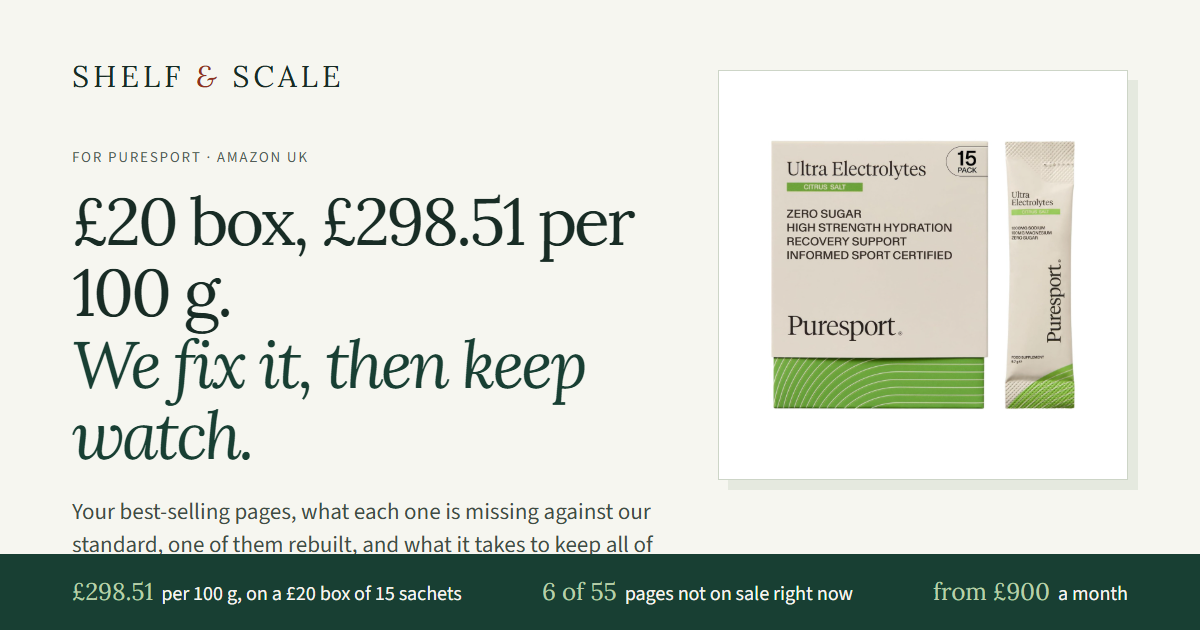
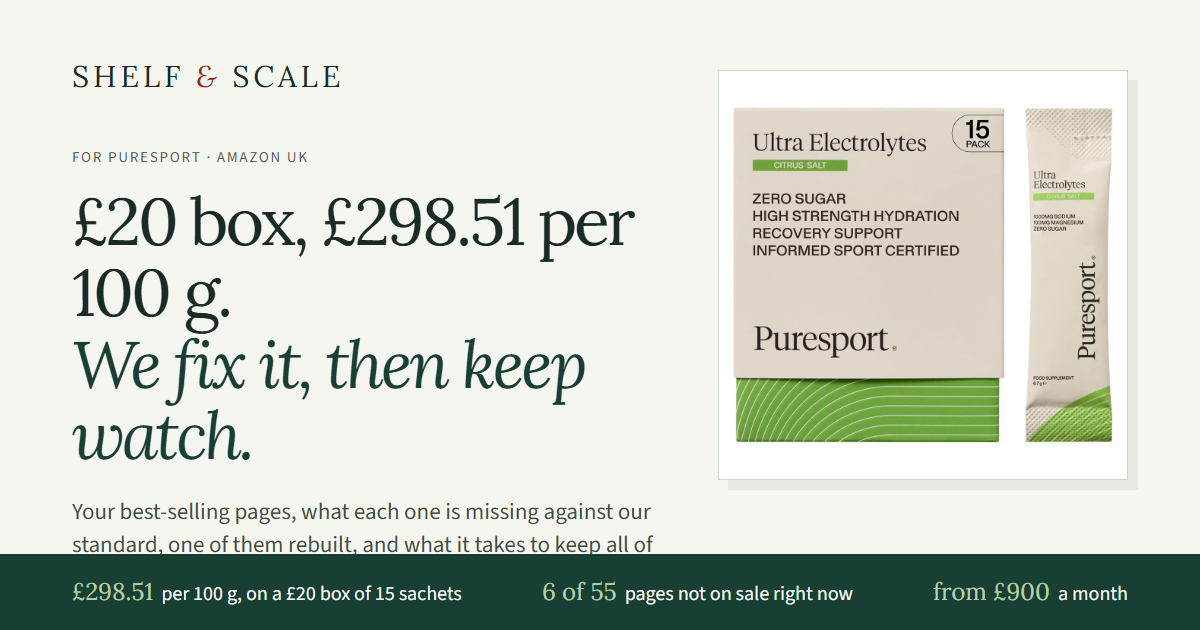
Puresport: own gallery kept, no generated frames

Changed region(s): [[0.5858, 0.1508, 0.925, 0.7238]]

diff --git a/r/puresport-care/index.html b/r/puresport-care/index.html
@@ -46,12 +46,12 @@
     </div>
     <div class="hero-art">
       <div class="product-sheet">
-        <div class="sheet-top"><span class="micro">ULTRA ELECTROLYTES · REBUILT</span><span class="sheet-number">B0D967P6B4</span></div>
-        <div class="packshot" style="height:auto;aspect-ratio:1224 / 800;max-height:418px"><img src="img/sachet-main-hero-v1.jpg" width="1000" height="1000" alt="Your Ultra Electrolytes Citrus Salt 15-pack box and one sachet on white" fetchpriority="high"></div>
+        <div class="sheet-top"><span class="micro">ULTRA ELECTROLYTES · NEW TITLE</span><span class="sheet-number">B0D967P6B4</span></div>
+        <div class="packshot" style="height:auto;aspect-ratio:1224 / 800;max-height:418px"><img src="img/sachet-main-hero-v1.jpg" width="1000" height="1000" alt="Your Ultra Electrolytes Citrus Salt 15-pack box and one sachet, your own main photo" fetchpriority="high"></div>
         <div class="sheet-product"><span>PURESPORT</span><h2>Ultra Electrolytes Citrus Salt, 15 sachets</h2><p>148 ratings · 4.2 stars · £20.00</p></div>
         <div class="sheet-checks"><span><i aria-hidden="true">✓</i> Same account</span><span><i aria-hidden="true">✓</i> Your price</span><span><i aria-hidden="true">✓</i> Every page checked weekly</span></div>
       </div>
-      <div class="art-caption"><span class="micro">MAIN IMAGE</span><span>Your own box and sachet on white, with room around them</span></div>
+      <div class="art-caption"><span class="micro">YOUR PHOTO</span><span>Your own main photo, kept: your gallery is strong</span></div>
     </div>
   </section>
   <!-- THREE NUMBERS -->
@@ -117,13 +117,13 @@
   </section>
   <!-- THE EXAMPLE -->
   <section class="container section" id="example" aria-labelledby="example-title">
-    <div class="section-heading"><div><p class="eyebrow">02 / THE EXAMPLE</p><h2 id="example-title">Your Ultra Electrolytes Citrus Salt, today <em class="ln">and rebuilt.</em></h2></div><p>Most Amazon UK shoppers see a page on a phone. This is the first screen: photo, title, stars, and whether they can buy. The left phone is your page as it stands today; the right is our concept for the same page, at your price. In Care the title, bullets and search terms are rewritten and new photos like these come in the monthly quota; A+ is quoted per page.</p></div>
+    <div class="section-heading"><div><p class="eyebrow">02 / THE EXAMPLE</p><h2 id="example-title">Your Ultra Electrolytes Citrus Salt, today <em class="ln">and with the price per unit fixed.</em></h2></div><p>Most Amazon UK shoppers see a page on a phone. The left phone is your page as it stands today; the right is the same page with a new title and the price per unit corrected, at your price. The photos are yours on both: the gallery is strong, so it stays as it is.</p></div>
 
 
     <div class="phones-block">
-  <div class="page-head"><span class="page-num">01</span><h3>Ultra Electrolytes Citrus Salt, 15 sachets</h3><p>148 ratings · 4.2 stars</p><span class="page-asin">B0D967P6B4</span><dl class="page-delta"><div><dt>Title</dt><dd><s>Puresport Ultra Electrolytes Hydration Citrus Salt (15 Pack), High Performance Sugar Free Electrolytes Powder, 1000mg Sodium, Optimise Hydration & Support Muscles, Travel-Friendly Format</s><br>Puresport Ultra Electrolytes Powder, Citrus Salt, 15 Sugar-Free Hydration Sachets, 1000mg Sodium, Travel-Friendly</dd></div><div><dt>Price per unit</dt><dd>The sachet says 6.7 g, the box holds 15, and the line reads (£298.51 /100 g) → unit count entered as 15 sachets of 6.7 g, so the line reads (£19.90 /100 g), as on your Raspberry 15-pack. The price stays £20.00</dd></div><div><dt>Main image</dt><dd>Your photo of the box and one sachet, filling the frame → the same photo with white around it; made in the monthly photo quota</dd></div><div><dt>Bullets</dt><dd>Eight lines, left as written: what the product does is yours to word</dd></div><div><dt>Gallery</dt><dd>Eight photos with a video, and A+ → they stay as they are</dd></div><div><dt>Offer</dt><dd>Unchanged: your offer at £20.00, in stock, dispatched by Amazon. The price is yours to set</dd></div></dl></div>
+  <div class="page-head"><span class="page-num">01</span><h3>Ultra Electrolytes Citrus Salt, 15 sachets</h3><p>148 ratings · 4.2 stars</p><span class="page-asin">B0D967P6B4</span><dl class="page-delta"><div><dt>Title</dt><dd><s>Puresport Ultra Electrolytes Hydration Citrus Salt (15 Pack), High Performance Sugar Free Electrolytes Powder, 1000mg Sodium, Optimise Hydration & Support Muscles, Travel-Friendly Format</s><br>Puresport Ultra Electrolytes Powder, Citrus Salt, 15 Sugar-Free Hydration Sachets, 1000mg Sodium, Travel-Friendly</dd></div><div><dt>Price per unit</dt><dd>The sachet says 6.7 g, the box holds 15, and the line reads (£298.51 /100 g) → unit count entered as 15 sachets of 6.7 g, so the line reads (£19.90 /100 g), as on your Raspberry 15-pack. The price stays £20.00</dd></div><div><dt>Main image</dt><dd>Your photo: the box and one sachet → kept as it is</dd></div><div><dt>Bullets</dt><dd>Eight lines, left as written: what the product does is yours to word</dd></div><div><dt>Gallery</dt><dd>Eight photos, three videos and A+: a strong gallery → stays as it is; we make no new frames for this page</dd></div><div><dt>Offer</dt><dd>Unchanged: your offer at £20.00, in stock, dispatched by Amazon. The price is yours to set</dd></div></dl></div>
   <div>
-  <div class="ph-toggle" role="tablist" aria-label="Show the page"><button type="button" class="on" data-show="today">Today</button><button type="button" data-show="after">Rebuilt</button></div>
+  <div class="ph-toggle" role="tablist" aria-label="Show the page"><button type="button" class="on" data-show="today">Today</button><button type="button" data-show="after">Fixed</button></div>
   <div class="phones" data-show="today">
     <figure class="phone today"><div class="ph-device"><div class="ph-screen">
   <div class="ph-status"></div><div class="ph-search"><svg class="ph-back" viewBox="0 0 16 16" fill="none" stroke="#0f1111" stroke-width="1.8" stroke-linecap="round" stroke-linejoin="round"><path d="M10 2 4 8l6 6"/></svg><span class="ph-box"><svg width="13" height="13" viewBox="0 0 16 16" fill="none" stroke="#565959" stroke-width="1.8" stroke-linecap="round"><circle cx="6.8" cy="6.8" r="5"/><path d="m10.5 10.5 4 4"/></svg>Search or ask a question</span><svg width="16" height="14" viewBox="0 0 20 17" fill="none" stroke="#0f1111" stroke-width="1.6" stroke-linejoin="round"><path d="M2 5h3.5l1.5-2.5h6L14.5 5H18v10H2z"/><circle cx="10" cy="10" r="3"/></svg></div>
@@ -132,8 +132,8 @@
 
     <figure class="phone after"><div class="ph-device"><div class="ph-screen">
   <div class="ph-status"></div><div class="ph-search"><svg class="ph-back" viewBox="0 0 16 16" fill="none" stroke="#0f1111" stroke-width="1.8" stroke-linecap="round" stroke-linejoin="round"><path d="M10 2 4 8l6 6"/></svg><span class="ph-box"><svg width="13" height="13" viewBox="0 0 16 16" fill="none" stroke="#565959" stroke-width="1.8" stroke-linecap="round"><circle cx="6.8" cy="6.8" r="5"/><path d="m10.5 10.5 4 4"/></svg>Search or ask a question</span><svg width="16" height="14" viewBox="0 0 20 17" fill="none" stroke="#0f1111" stroke-width="1.6" stroke-linejoin="round"><path d="M2 5h3.5l1.5-2.5h6L14.5 5H18v10H2z"/><circle cx="10" cy="10" r="3"/></svg></div>
-  <div class="ph-body"><div class="ph-store"><a>Visit the Puresport Store</a><span class="ph-rating"><span>4.2</span><span class="stars">★★★★☆</span><span class="ph-n">(148)</span></span></div><div class="ph-title">Puresport <u>Ultra Electrolytes Powder</u>, Citrus Salt, 15 Sugar-Free <u>Hydration Sachets</u>, 1000mg Sodium, Travel-Friendly</div><div class="ph-img"><img src="img/sachet-main-v1.jpg" alt="Ultra Electrolytes Citrus Salt rebuilt: the new main image, concept" loading="lazy" width="800" height="800"><div class="ph-dots"><i class="on"></i><i></i><i></i><i></i><i></i><i></i><i></i><i></i><span class="ph-icons"><svg width="16" height="15" viewBox="0 0 24 22" fill="none" stroke="#0f1111" stroke-width="1.8"><path d="M12 20s-9-5.6-9-12a5 5 0 0 1 9-3 5 5 0 0 1 9 3c0 6.4-9 12-9 12z"/></svg><svg width="15" height="15" viewBox="0 0 24 24" fill="none" stroke="#0f1111" stroke-width="1.8" stroke-linecap="round"><circle cx="18" cy="5" r="2.5"/><circle cx="6" cy="12" r="2.5"/><circle cx="18" cy="19" r="2.5"/><path d="m8.2 10.8 7.6-4.6M8.2 13.2l7.6 4.6"/></svg></span></div></div><div class="ph-price"><span class="ph-sym">£</span>20.00<small>(£19.90 /100 g)</small></div><div class="ph-avail">In stock</div><div class="ph-save"><span class="ph-btn yellow">Add to Basket</span><span class="ph-btn orange">Buy Now</span></div><div class="ph-nav"><span class="cur"><svg width="20" height="20" viewBox="0 0 24 24" fill="none" stroke="#0f1111" stroke-width="1.7" stroke-linejoin="round"><path d="M3 11 12 3l9 8v10h-6v-6H9v6H3z"/></svg><b>Home</b></span><span><svg width="20" height="20" viewBox="0 0 24 24" fill="none" stroke="#0f1111" stroke-width="1.7"><circle cx="12" cy="8" r="4"/><path d="M4 21a8 8 0 0 1 16 0"/></svg><b>You</b></span><span><svg width="20" height="20" viewBox="0 0 24 24" fill="none" stroke="#0f1111" stroke-width="1.7" stroke-linejoin="round"><path d="M3 4h2l2.5 11h11L21 7H6.5"/><circle cx="9" cy="19" r="1.5"/><circle cx="17" cy="19" r="1.5"/></svg><b>Basket</b></span><span><svg width="20" height="20" viewBox="0 0 24 24" fill="none" stroke="#0f1111" stroke-width="1.7" stroke-linecap="round"><path d="M4 7h16M4 12h16M4 17h16"/></svg><b>Browse</b></span></div><div class="ph-home"></div></div>
-</div><img class="ph-frame" src="img/frame/iphone.png" alt="" width="640" height="1283" loading="lazy"></div><figcaption>Rebuilt · our concept · your price today</figcaption></figure>
+  <div class="ph-body"><div class="ph-store"><a>Visit the Puresport Store</a><span class="ph-rating"><span>4.2</span><span class="stars">★★★★☆</span><span class="ph-n">(148)</span></span></div><div class="ph-title">Puresport <u>Ultra Electrolytes Powder</u>, Citrus Salt, 15 Sugar-Free <u>Hydration Sachets</u>, 1000mg Sodium, Travel-Friendly</div><div class="ph-img"><img src="img/ph-sachet-today.jpg" alt="Ultra Electrolytes Citrus Salt with the new title and price per unit, concept: your own main photo, unchanged" loading="lazy" width="800" height="800"><div class="ph-dots"><i class="on"></i><i></i><i></i><i></i><i></i><i></i><i></i><i></i><span class="ph-icons"><svg width="16" height="15" viewBox="0 0 24 22" fill="none" stroke="#0f1111" stroke-width="1.8"><path d="M12 20s-9-5.6-9-12a5 5 0 0 1 9-3 5 5 0 0 1 9 3c0 6.4-9 12-9 12z"/></svg><svg width="15" height="15" viewBox="0 0 24 24" fill="none" stroke="#0f1111" stroke-width="1.8" stroke-linecap="round"><circle cx="18" cy="5" r="2.5"/><circle cx="6" cy="12" r="2.5"/><circle cx="18" cy="19" r="2.5"/><path d="m8.2 10.8 7.6-4.6M8.2 13.2l7.6 4.6"/></svg></span></div></div><div class="ph-price"><span class="ph-sym">£</span>20.00<small>(£19.90 /100 g)</small></div><div class="ph-avail">In stock</div><div class="ph-save"><span class="ph-btn yellow">Add to Basket</span><span class="ph-btn orange">Buy Now</span></div><div class="ph-nav"><span class="cur"><svg width="20" height="20" viewBox="0 0 24 24" fill="none" stroke="#0f1111" stroke-width="1.7" stroke-linejoin="round"><path d="M3 11 12 3l9 8v10h-6v-6H9v6H3z"/></svg><b>Home</b></span><span><svg width="20" height="20" viewBox="0 0 24 24" fill="none" stroke="#0f1111" stroke-width="1.7"><circle cx="12" cy="8" r="4"/><path d="M4 21a8 8 0 0 1 16 0"/></svg><b>You</b></span><span><svg width="20" height="20" viewBox="0 0 24 24" fill="none" stroke="#0f1111" stroke-width="1.7" stroke-linejoin="round"><path d="M3 4h2l2.5 11h11L21 7H6.5"/><circle cx="9" cy="19" r="1.5"/><circle cx="17" cy="19" r="1.5"/></svg><b>Basket</b></span><span><svg width="20" height="20" viewBox="0 0 24 24" fill="none" stroke="#0f1111" stroke-width="1.7" stroke-linecap="round"><path d="M4 7h16M4 12h16M4 17h16"/></svg><b>Browse</b></span></div><div class="ph-home"></div></div>
+</div><img class="ph-frame" src="img/frame/iphone.png" alt="" width="640" height="1283" loading="lazy"></div><figcaption>New title · your own photos</figcaption></figure>
 
   </div>
   </div>
@@ -153,19 +153,9 @@
         <p class="note">Your title runs to 186 characters, and the rebuilt one to about 110: Puresport stays first, the flavour and the 15 sachets are in it, and so is the 1000mg of sodium your page prints. Both phrases are searched all year. The words about what the product does are left out of the title: that wording is yours to choose.</p>
       </div>
       <div class="panel">
-        <span class="micro">SEVEN FRAMES, ONE QUESTION EACH · THREE SHOWN FOR THIS PAGE</span>
-        <div class="frames">
-          <div><i>1</i><img src="img/sachet-main-v1.jpg" alt="Frame 1: the box and one sachet on white" loading="lazy" width="400" height="400"><span><b>What is it</b>Main image, on white</span></div>
-          <div><i>2</i><img src="img/sachet-inside-v2.jpg" alt="Frame 2 concept: the box, an opened sachet and a small pile of pale powder on white" loading="lazy" width="400" height="400"><span><b>What is in the sachet</b>The powder, beside the sachet</span></div>
-          <div><i>3</i><img src="img/sachet-use-v1.jpg" alt="Frame 3 concept: the box and a sachet on a park bench beside a water bottle and a running shoe" loading="lazy" width="400" height="400"><span><b>Where do I use it</b>On a park bench, beside a bottle</span></div>
-        </div>
-        <ol class="frames-rest">
-          <li><i>4</i><b>What is in it</b> sodium, potassium, magnesium and calcium: your bullet 1</li>
-          <li><i>5</i><b>How much sodium</b> 1000mg per sachet: your bullet 5</li>
-          <li><i>6</i><b>How do I take it</b> one sachet in 500ml of water: your bullet 4</li>
-          <li><i>7</i><b>Which flavour is it</b> Citrus Salt, one of six in the flavour picker</li>
-        </ol>
-        <p class="note">Frames 1 to 3 are built from your own photograph for this page: what Care makes for a page in the monthly photo quota (4 pages a month on Care S); frames 4 to 7 show what a full gallery would answer, in your words. The colour and fineness of the powder in frame 2 are a concept: the real powder is yours. A+ is separate and quoted per page.</p>
+        <span class="micro">YOUR GALLERY · STRONG, IT STAYS</span>
+        <p class="own-gallery" style="font-size:17px;line-height:1.5;margin:12px 0 0;color:var(--ink)">Eight photos, three videos and A+ on this page. That is a strong gallery, so we leave it as it is and make no new photos for it.</p>
+        <p class="note">In Care, new photos go first to the pages that need them: 17 of your pages on sale carry six photos, one short of seven. A+ is quoted per page.</p>
       </div>
     </div>
   </section>
@@ -183,7 +173,7 @@
           <article class=""><div class="shelf-img"><img src="img/shelf/t4.jpg" alt="" loading="lazy" width="320" height="320"></div><h4>HIGH5 ZERO Electrolyte Tablets for Hydration, Citrus, 20 Tablets</h4><div class="shelf-rating"><span>4.6</span> <span class="stars">★★★★☆</span> <span class="n">(3.9K)</span></div><div class="shelf-bought">9K+ bought in past month</div><div class="shelf-price">£4.99</div></article>
           <article class=""><div class="shelf-img"><img src="img/shelf/t5.jpg" alt="" loading="lazy" width="320" height="320"></div><h4>Puresport Ultra Electrolytes Orange Lemonade Powder, 30 Sachets</h4><div class="shelf-rating"><span>4.4</span> <span class="stars">★★★★☆</span> <span class="n">(78)</span></div><div class="shelf-bought">100+ bought in past month</div><div class="shelf-price">£33.00</div></article>
         </div>
-        <figcaption>Amazon.co.uk, search "ultra electrolytes citrus", 12 October 2026, London address, 12 sponsored tiles removed; organic results 1 to 5 in order, titles cut for space, ratings, labels and prices as listed that day. Results 1 and 5 are your own pages. Result 3 is your 15-pack, shown as our concept for it: new main image, new title, its rating and price as listed. Rank follows sales, and a rebuilt page does not buy a position.</figcaption>
+        <figcaption>Amazon.co.uk, search "ultra electrolytes citrus", 12 October 2026, London address, 12 sponsored tiles removed; organic results 1 to 5 in order, titles cut for space, ratings, labels and prices as listed that day. Results 1 and 5 are your own pages. Result 3 is your 15-pack, shown as our concept for it: your own photo, the new title, its rating and price as listed. Rank follows sales, and a rebuilt page does not buy a position.</figcaption>
       </figure>
     </div>
   </section>
@@ -229,7 +219,7 @@
         <li><strong>The shelf.</strong> Amazon.co.uk search "ultra electrolytes citrus", first page, London EC2A address, 12 October 2026: 49 results, 12 sponsored tiles removed. Organic results 1 to 5 are shown; results 1, 3 and 5 are Puresport pages, result 3 shown as our concept.</li>
         <li><strong>Your website.</strong> puresport.co, 12 October 2026: its terms say that "Puresport" means Pure Sport Oil Limited (company number SC615410); its range lists the Ultra Electrolytes Citrus Salt 15-pack, the creatine sachets and the bundles.</li>
         <li><strong>Company.</strong> PURE SPORT OIL LIMITED, company number SC615410, incorporated 4 December 2018, registered office C/O Assenti & Noble, Douglas House, 42 Main Street, Milngavie, Glasgow G62 6BU; directors Alexander Stewart (since June 2024), Stephen Moon (December 2024), Robert William Senior (February 2025), Niccolo Manzoni (February 2025) and Daniel Temm (January 2021). Read at Companies House on 12 October 2026.</li>
-        <li><strong>What is real and what is a concept.</strong> Real: every number, date, rating count, search rank, price, and the left phone. Concept: the new title, the three gallery frames, the hero image and the right phone's price per unit, built from Puresport's own photograph of the box and sachet. Whether Amazon lets your account change each element of a page is confirmed in the first week of Care, before anything is filed.</li>
+        <li><strong>What is real and what is a concept.</strong> Real: every number, date, rating count, search rank, price, the left phone and every photo: all are Puresport's own, from the live page (the hero and the shelf tile add white space around it). Concept: the new title and the right phone's price per unit, on the right phone and the shelf tile. Whether Amazon lets your account change each element of a page is confirmed in the first week of Care, before anything is filed.</li>
       </ul></details>
     </div>
   </section>

diff --git a/r/puresport-care/og.html b/r/puresport-care/og.html
@@ -12,5 +12,5 @@ p{font-size:23px;line-height:1.45;color:#3f4d45;margin:24px 0 0}
 .bar b{font-family:'Lora',serif;font-weight:400;font-size:24px;margin-right:8px;color:#b8cfa9}
 </style></head><body><div class="l"><div class="wm">Shelf <i>&amp;</i> Scale</div><div class="eyebrow">FOR PURESPORT · AMAZON UK</div>
 <h1>£20 box, £298.51 per 100 g. <em>We fix it, then keep watch.</em></h1><p>Your best-selling pages, what each one is missing against our standard, one of them rebuilt, and what it takes to keep all of them in order every week.</p></div>
-<div class="card"><img src="img/sachet-main-v1.jpg"></div>
+<div class="card"><img src="img/ph-sachet-today.jpg"></div>
 <div class="bar"><span><b>£298.51</b>per 100 g, on a £20 box of 15 sachets</span><span><b>6 of 55</b>pages not on sale right now</span><span><b>from £900</b>a month</span></div></body></html>
